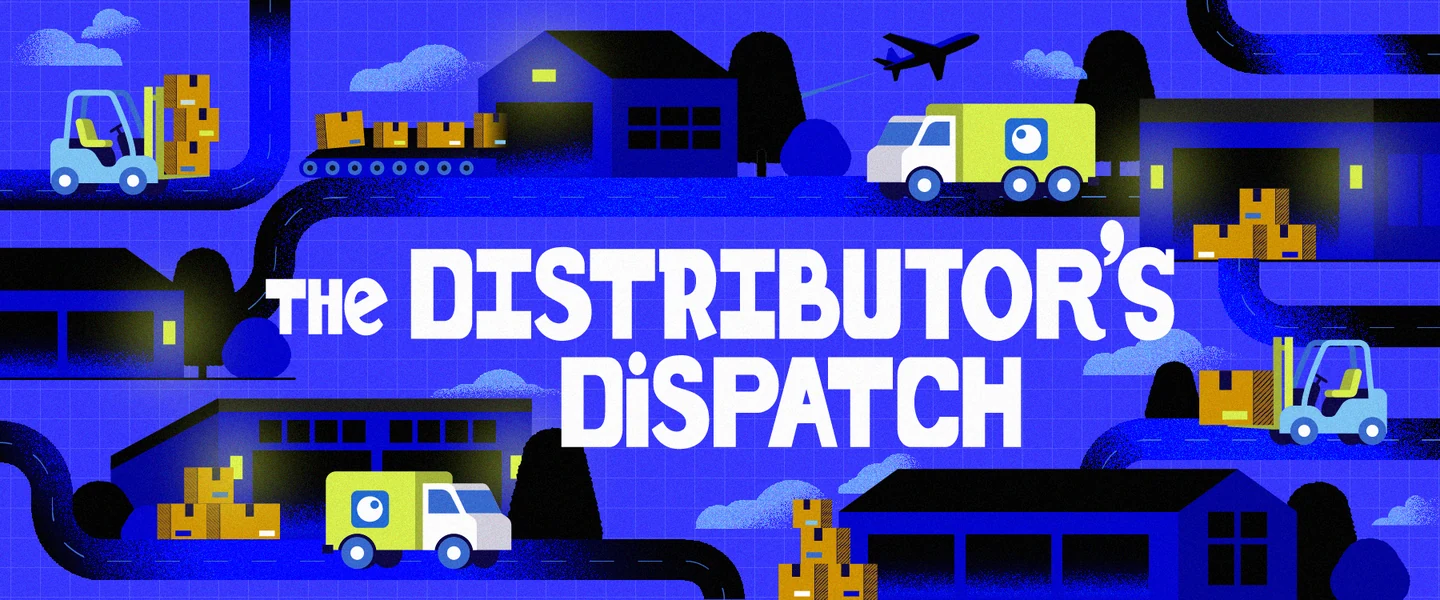
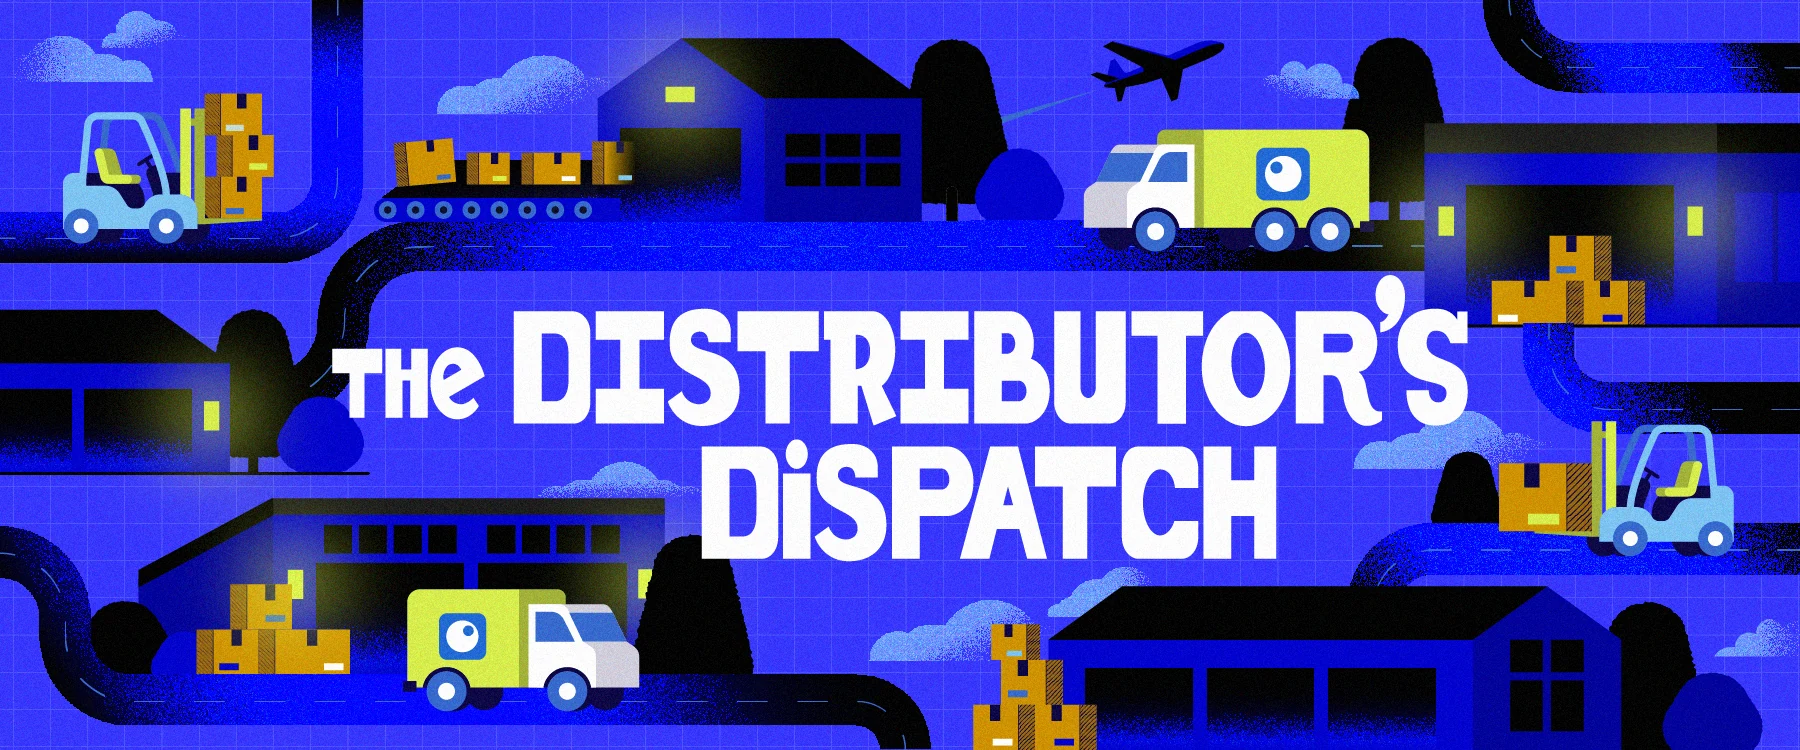
Stack the newsletter mastheads full width
One per row instead of a side-by-side pair. Re-exported at their native
1800px rather than 1440, since they now render up to 1310px wide and
would otherwise have had little headroom over the display size.

Claude-Session: https://claude.ai/code/session_01J3W5wrcqdxTtx6k2oSKiqV

diff --git a/lib/projects.ts b/lib/projects.ts
@@ -119,20 +119,22 @@ const galleries: Record<number, ProjectGallery> = {
         height: 1080,
       },
     ],
-    // Headers sit directly above the mockup they belong to, so this row's
-    // order mirrors the newsletters below: Playbook left, Dispatch right.
+    // A masthead apiece, full width and stacked, running in the same order as
+    // the mockup pair below: Playbook then Dispatch.
     [
       {
         src: '/media/project-02/proton-playbook-header.webp',
         alt: 'The Proton Playbook newsletter header: bold blue type beside a grinning lime delivery truck character holding a clipboard of plays, on a pale grid.',
-        width: 1440,
-        height: 600,
+        width: 1800,
+        height: 750,
       },
+    ],
+    [
       {
         src: '/media/project-02/proton-dispatch-header.webp',
         alt: "The Distributor's Dispatch newsletter header: white type over a night-time blue scene of warehouses, forklifts, delivery trucks and a plane overhead.",
-        width: 1440,
-        height: 600,
+        width: 1800,
+        height: 750,
       },
     ],
     [
